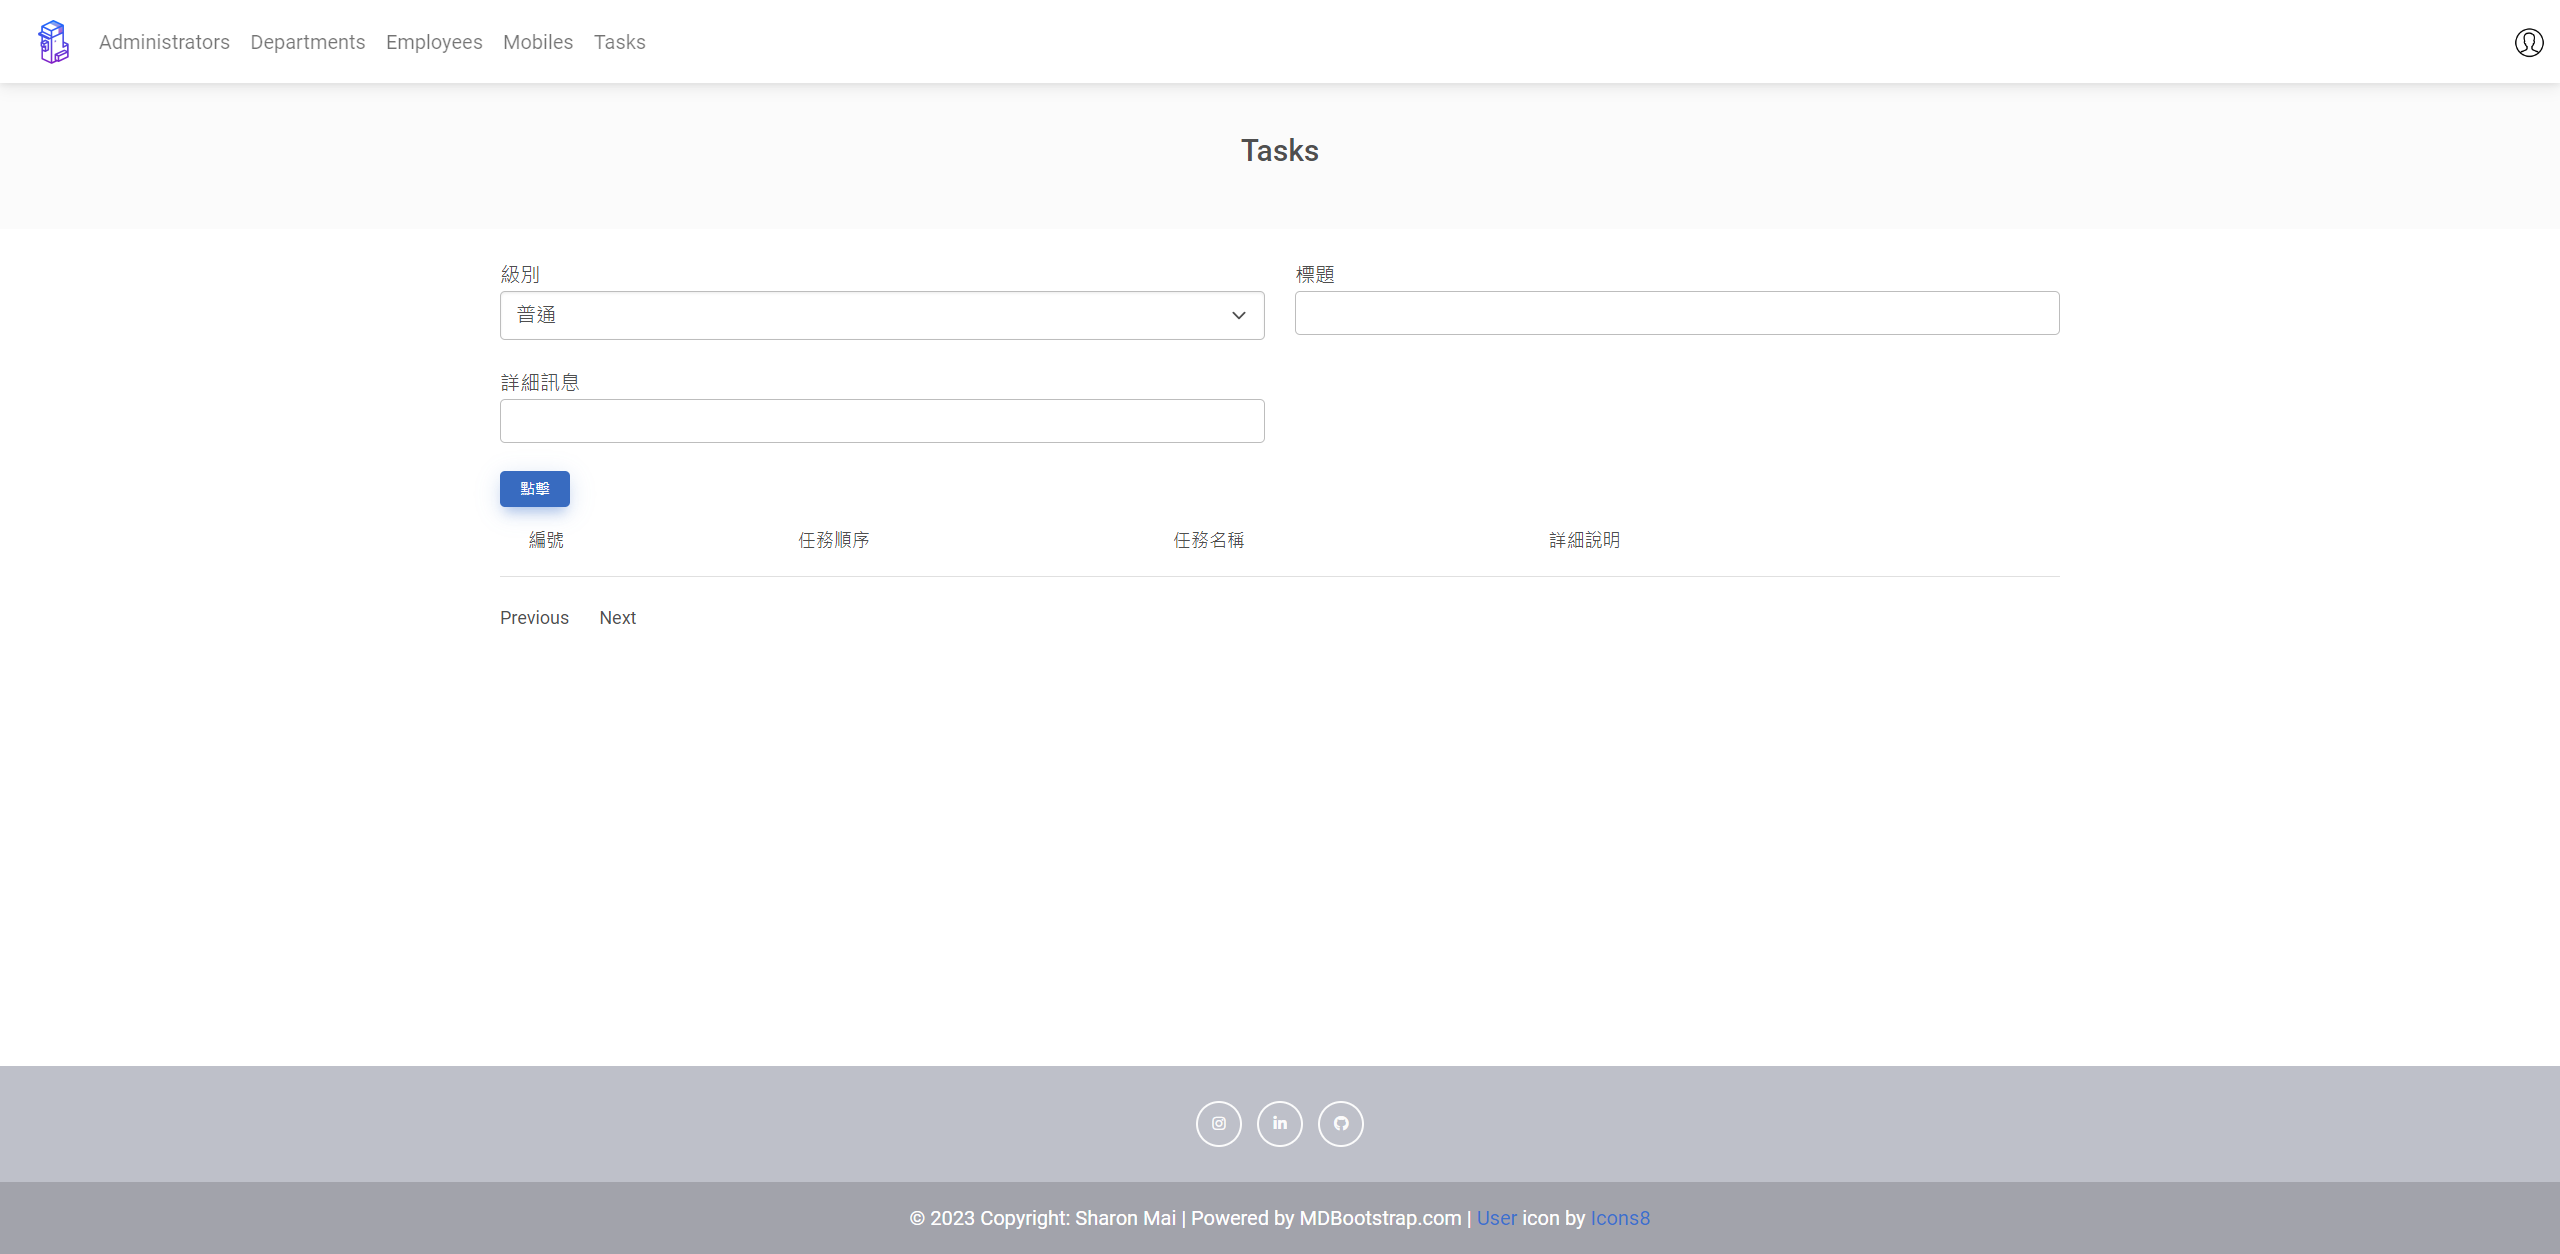
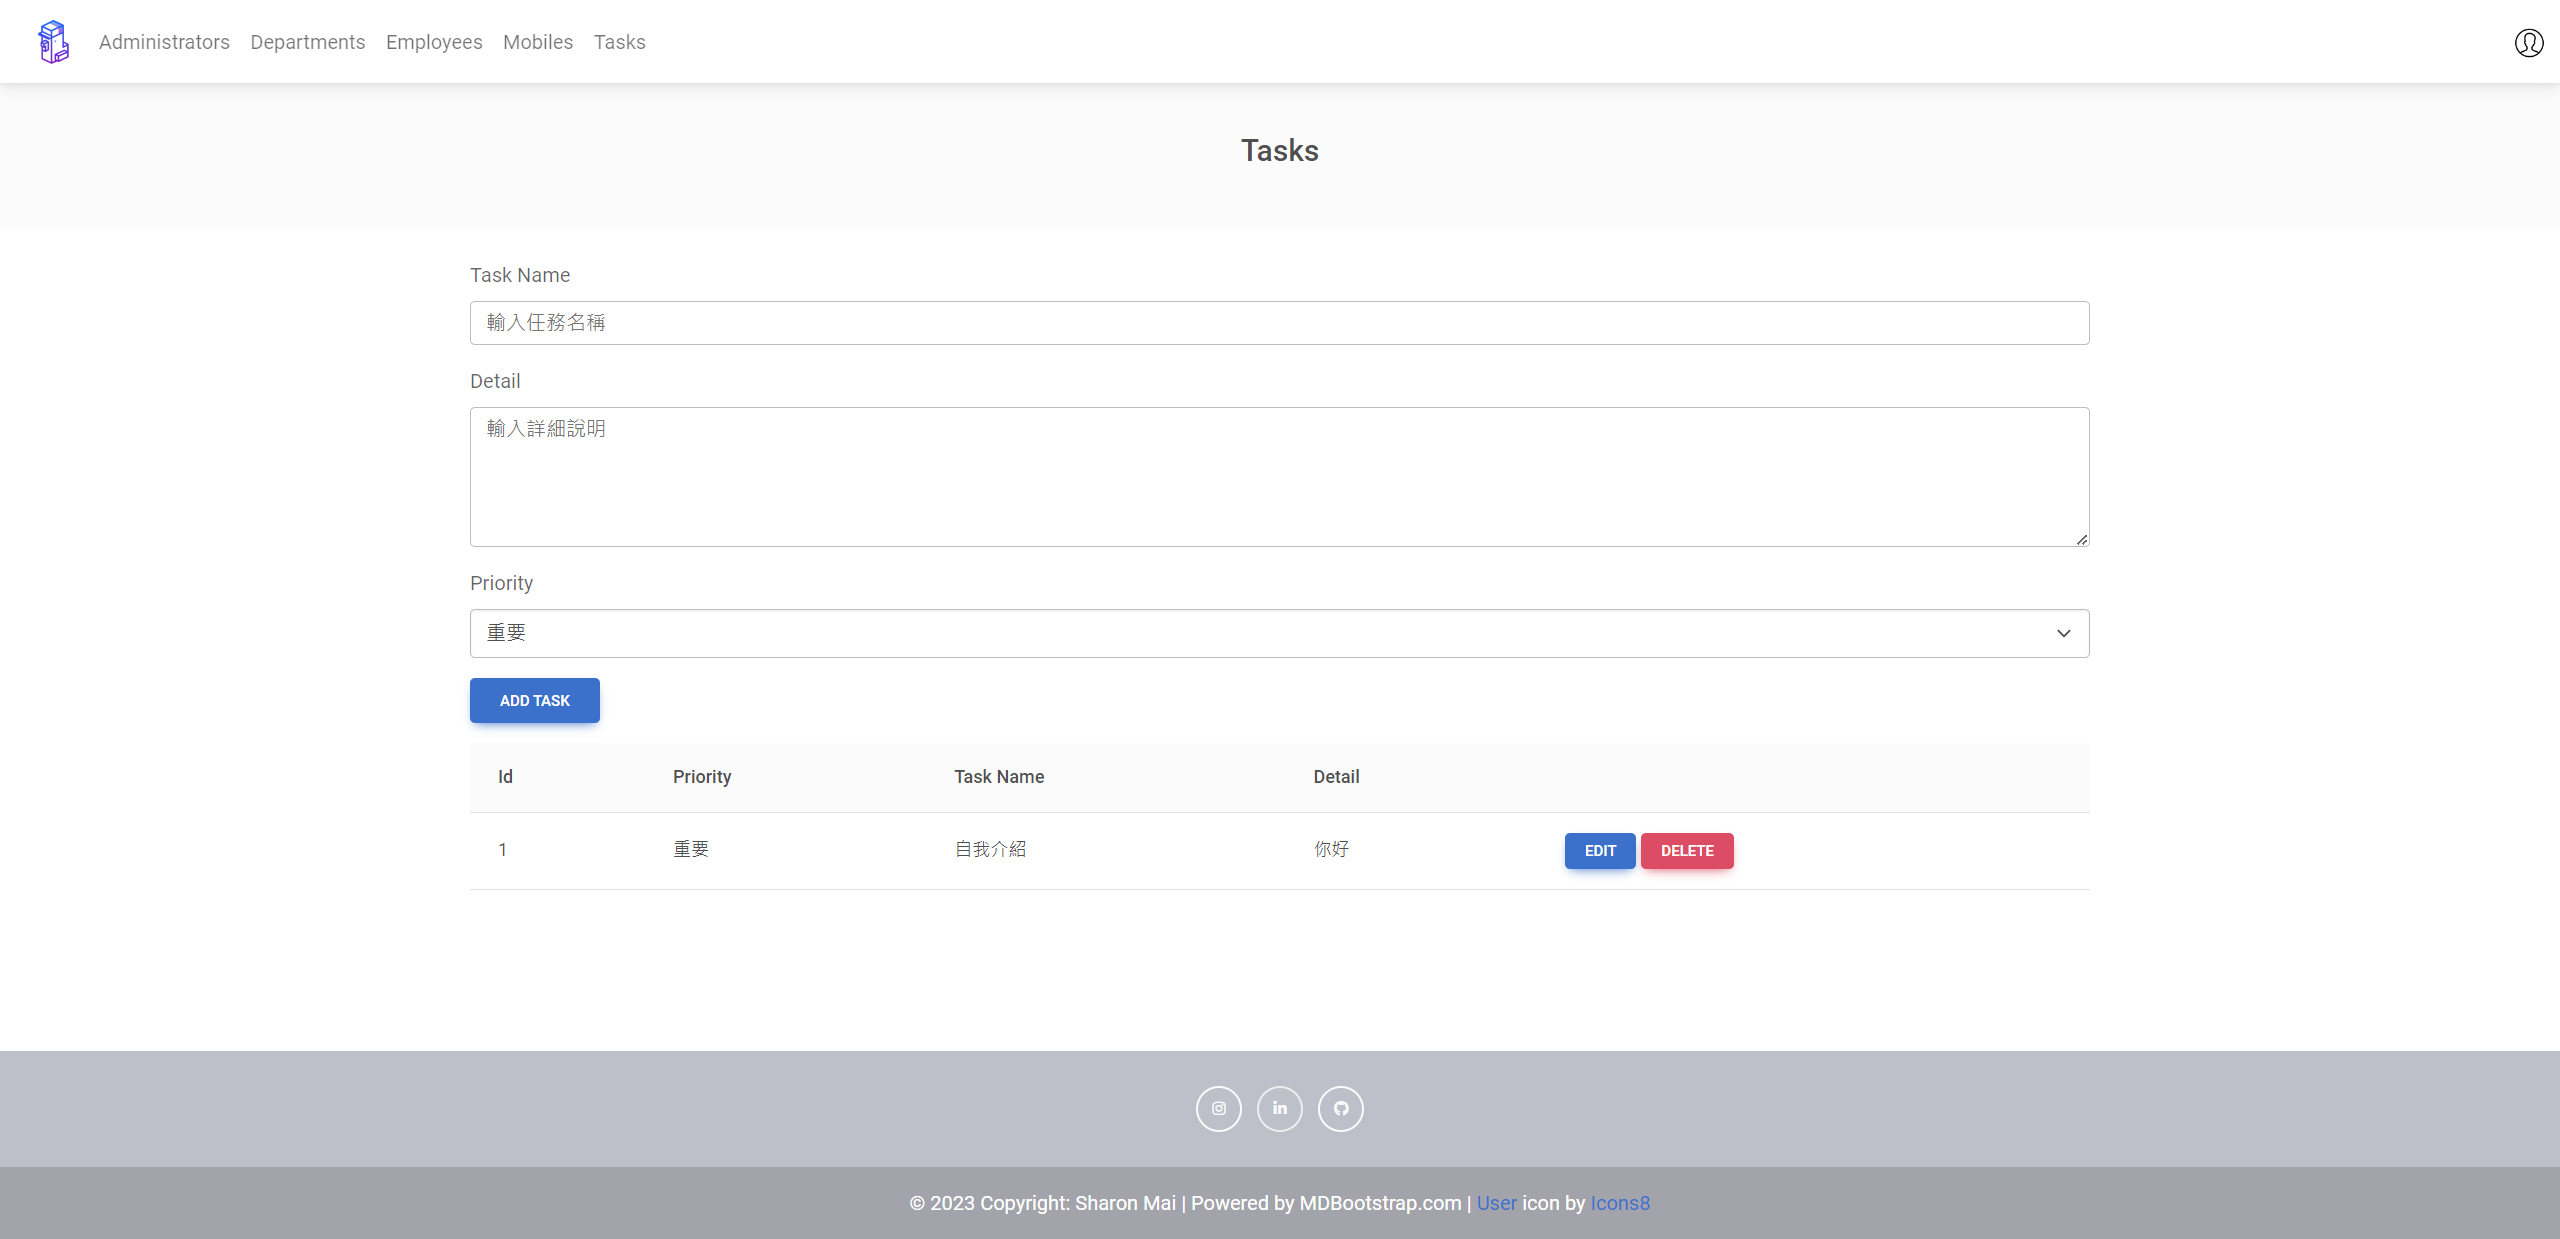
:sparkles: feature: Add screenshot email and task

diff --git a/README.md b/README.md
@@ -9,7 +9,7 @@
 </h3>
 
 <p align="center">
-    <a href="https://quacqkersort.be/login/">View Quacqkersort Web</a>
+    <a href="https://quacqkersort.be">View Quacqkersort Web</a>
     ·
     <a href="https://grafana.quacqkersort.be">View Grafana Dashboard</a>
     ·
@@ -25,6 +25,8 @@
 <p align="center">
   <img src="screenshot/login.png" alt="login">
   <img src="screenshot/admin.png" alt="admin">
+  <img src="screenshot/task.png" alt="task">
+  <img src="screenshot/email.png" alt="email" width="90%">
 </p>
 
 <details>
@@ -36,7 +38,6 @@
     <img src="screenshot/admin.png" alt="admin">
     <img src="screenshot/add-before.png" alt="CURD-normal">
     <img src="screenshot/add.png" alt="CURD-add">
-    <img src="screenshot/task.png" alt="task">
   </p>
 </details>
 
